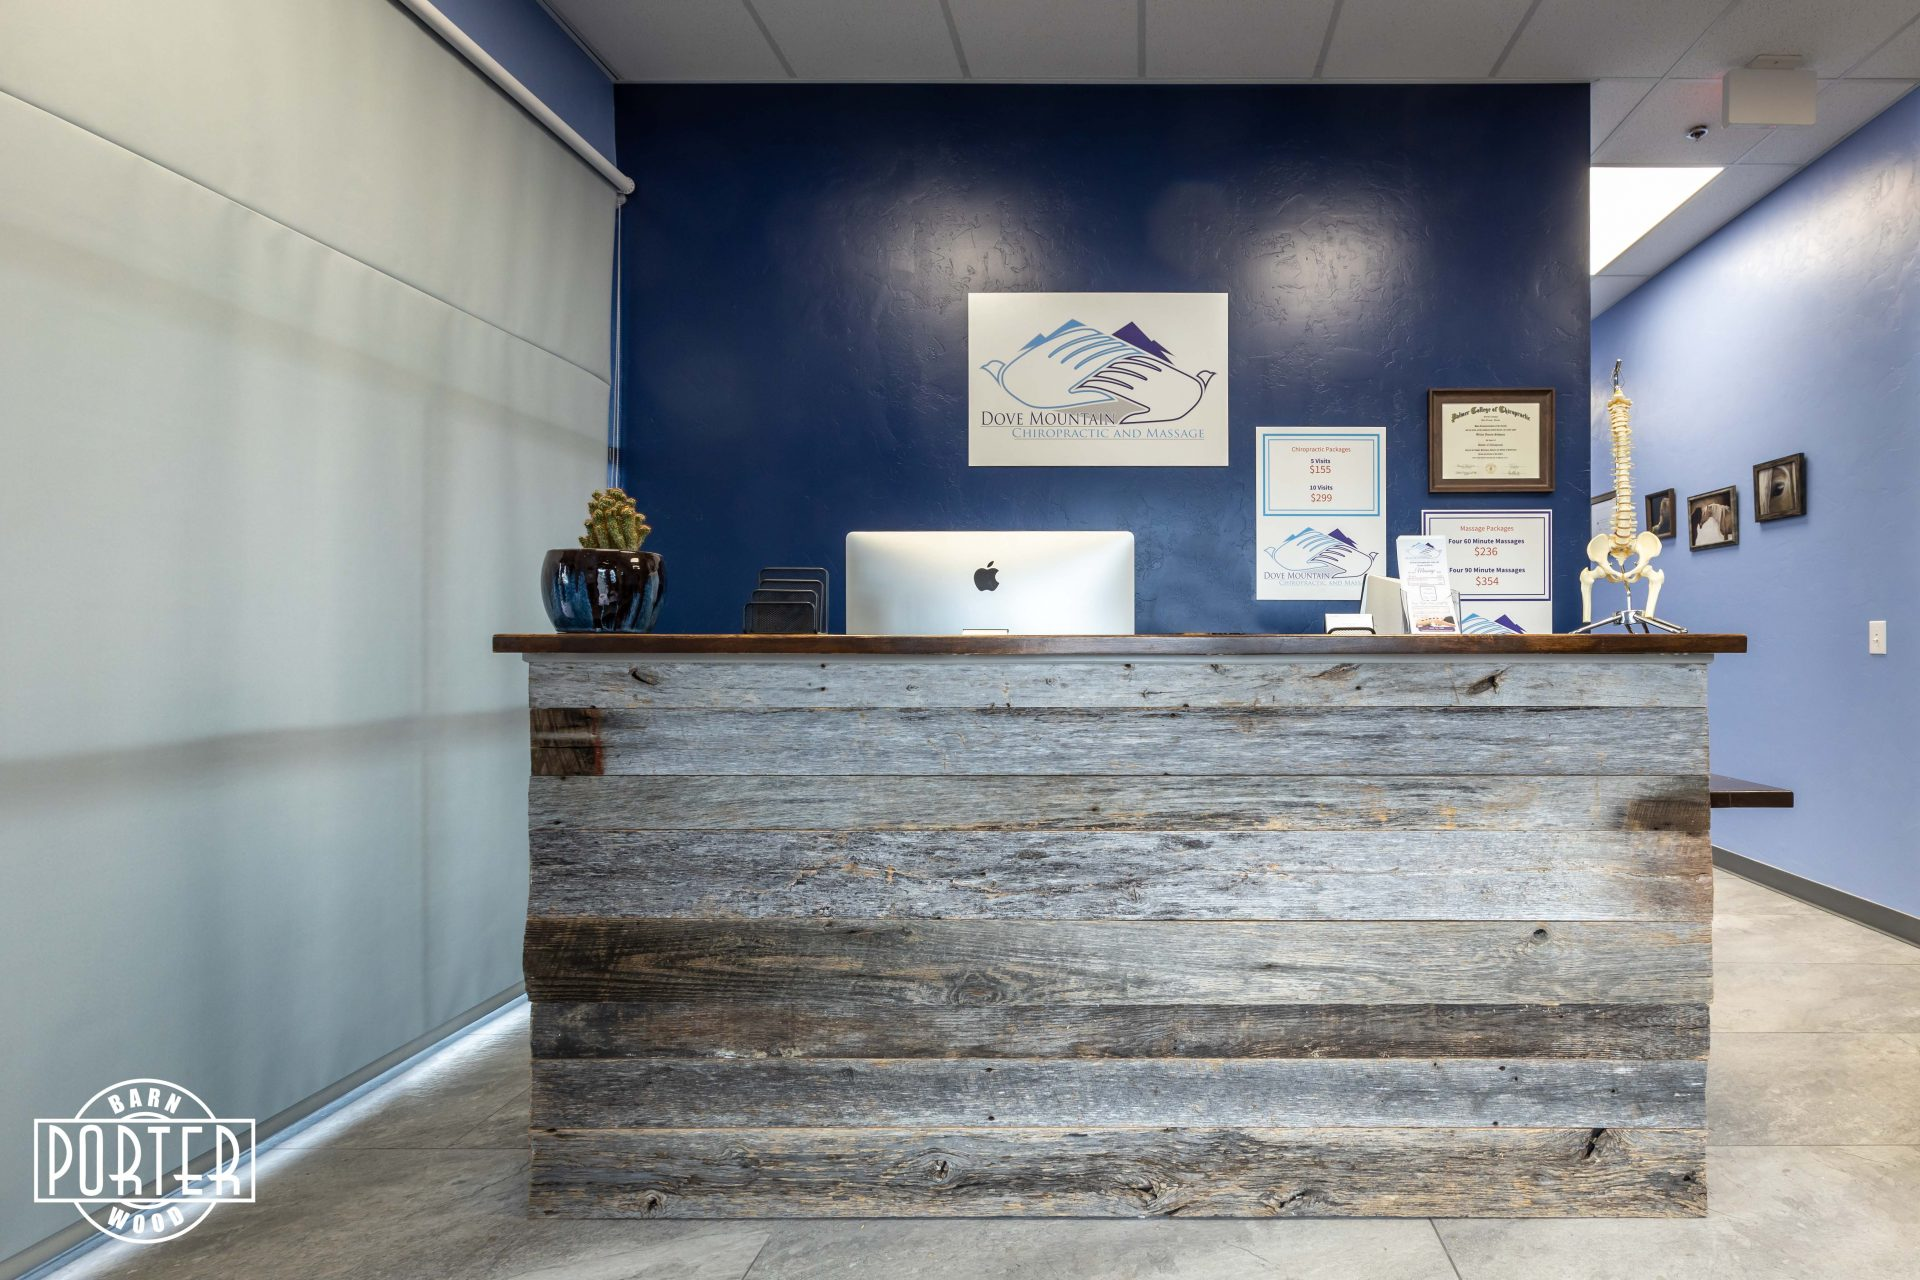
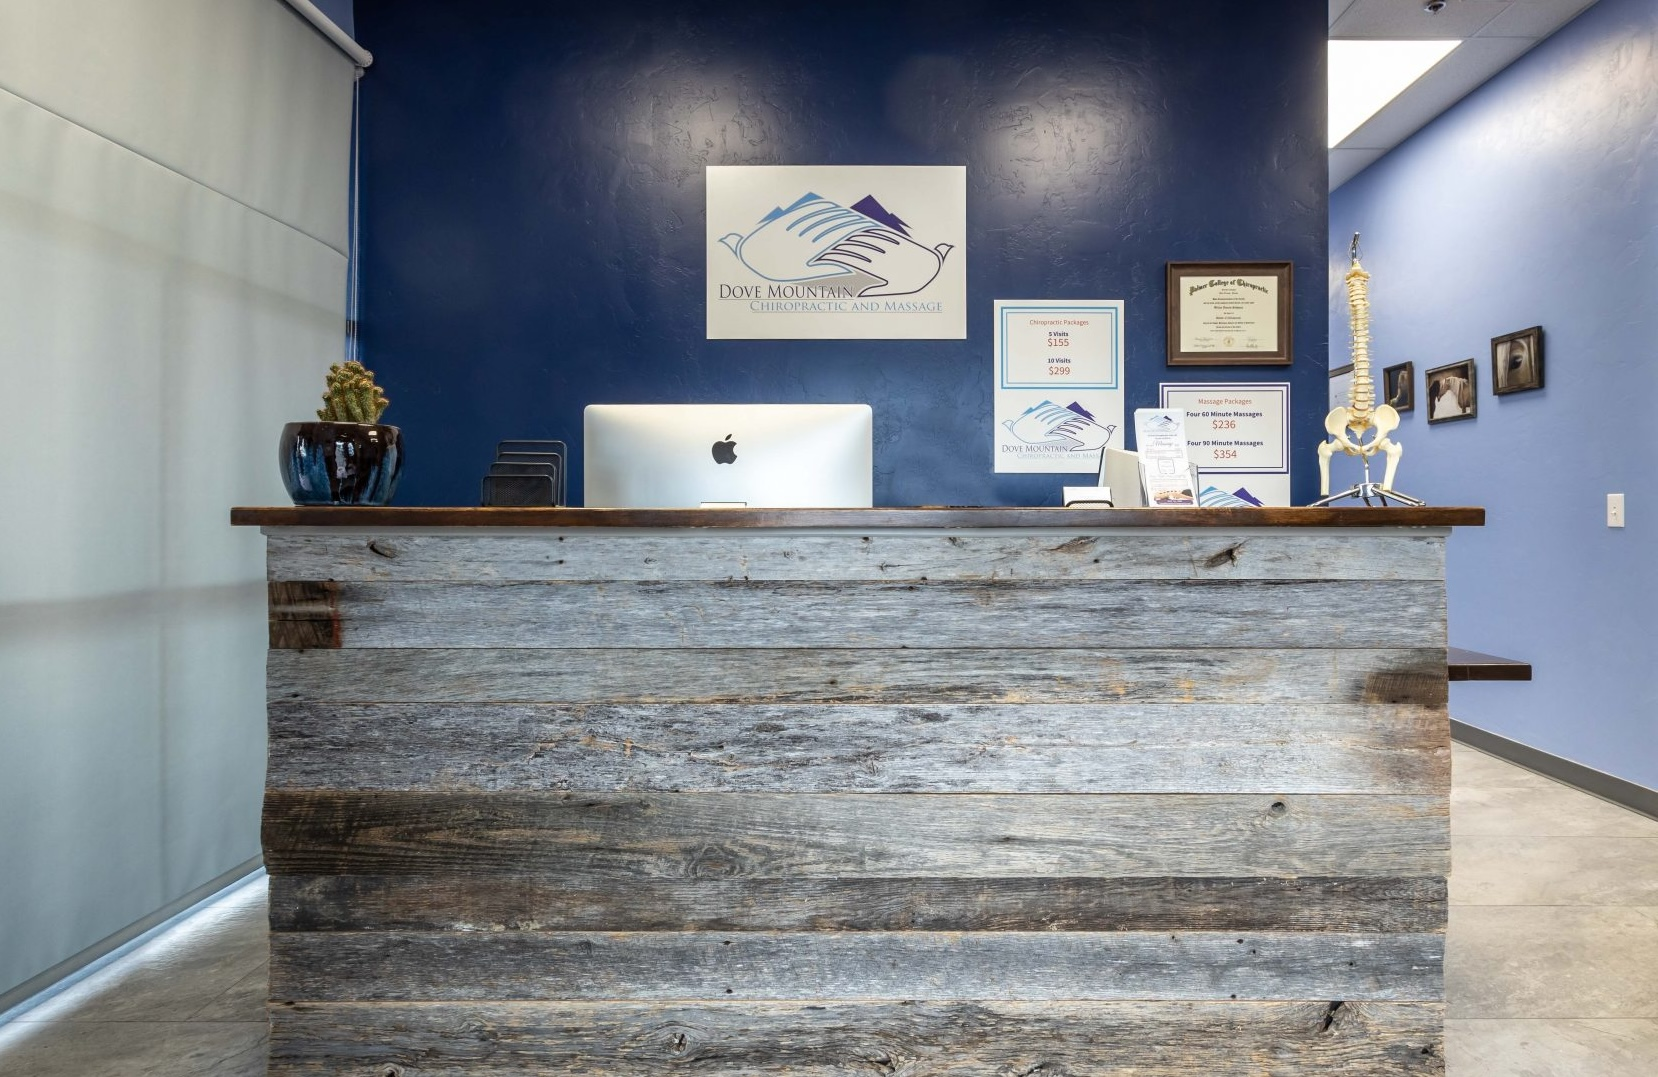
Crop hero image, add padding to nav, make call to action sticky, begin formatting staff content

diff --git a/style.css b/style.css
@@ -3,7 +3,7 @@
     padding: 0;
     font-family: jura, sans-serif;
     box-sizing: border-box;
-    border: red 2px solid;
+    /* border: red 2px solid; */
     font-size: 20px;
 }
 
@@ -17,6 +17,7 @@
 body {
     /* display: flex;
     flex-direction: column; */
+    max-width: 800px;
 }
 
 img {
@@ -27,16 +28,17 @@ img {
 
 .logo {
     background-color: white;
-    max-width: 800px;
+    /* max-width: 800px; */
 }
 
 .navBar {
-    max-width: 800px;
+    /* max-width: 800px; */
     display: flex;
     flex-wrap: wrap;
     list-style-type: none;
     background-color: #381586;
     color: white;
+    padding: 0.5em;
 }
 
 .navBar li {
@@ -49,7 +51,62 @@ img {
 }
 
 .heroContainer {
-    max-width: 800px;
+    /* max-width: 800px; */
+}
+
+.callToActionHeader {
+    display: flex;
+    align-items: center;
+    justify-content: center;
+    /* max-width: 800px; */
+    background-color: white;
+    color: #381586;
+    font-size: 1em;
+    padding: 0.5em;
+}
+
+.sticky {
+    position: sticky;
+    top: 0;
+    /* width: 100%; */
+}
+
+.staffContainer {
+    display: flex;
+    background-color: #381586;
+    padding: 3em 2em;
+    gap: 1em;
+}
+
+/*Image not keeping proportions when scaling*/
+
+.staffImage {
+    display: flex;
+    width: 25%;
+}
+
+.staffImage img {
+    min-width: 220px;
+}
+
+.staffContent {
+    width: 75%;
+    color: white;
+}
+
+.staffContent h1 {
+    font-size: 1.75em;
+}
+
+.staffContent p {
+    padding: 1em 0;
+}
+
+.mapContainer {
+    display: flex;
+    justify-content: center;
+    align-items: center;
+    flex-direction: column;
 }
 
 

diff --git a/index.html b/index.html
@@ -12,7 +12,7 @@
 
 <body>
     <div class="logo">
-        <img src="./images/logo.png">
+        <img src="./images/logo.png" alt="Company logo of two doves with mountains in the background" width="500px">
     </div>
 
     <div class="navContainer">
@@ -25,14 +25,18 @@
     </div>
 
     <div class="heroContainer">
-        <img src="./images/front-desk.jpg">
+        <img src="./images/front-desk.jpg" alt="Photo of the business's front desk" width="1658px">
     </div>
 
-    <div>Sticky Call To Action</div>
+    <div class="callToActionHeader sticky">
+        <p>
+            Schedule your appointment today! <a href="tel:5207448888">(520) 744-8888</a>
+        </p>
+    </div>
 
     <div class="staffContainer">
         <div class="staffImage">
-            <img src="./images/staff.png">
+            <img src="./images/staff.png" alt="Photo of Dr. Schnurr" width="220px">
         </div>
         <div class="staffContent">
             <h1>Meet Brian Schnurr DC</h1>
